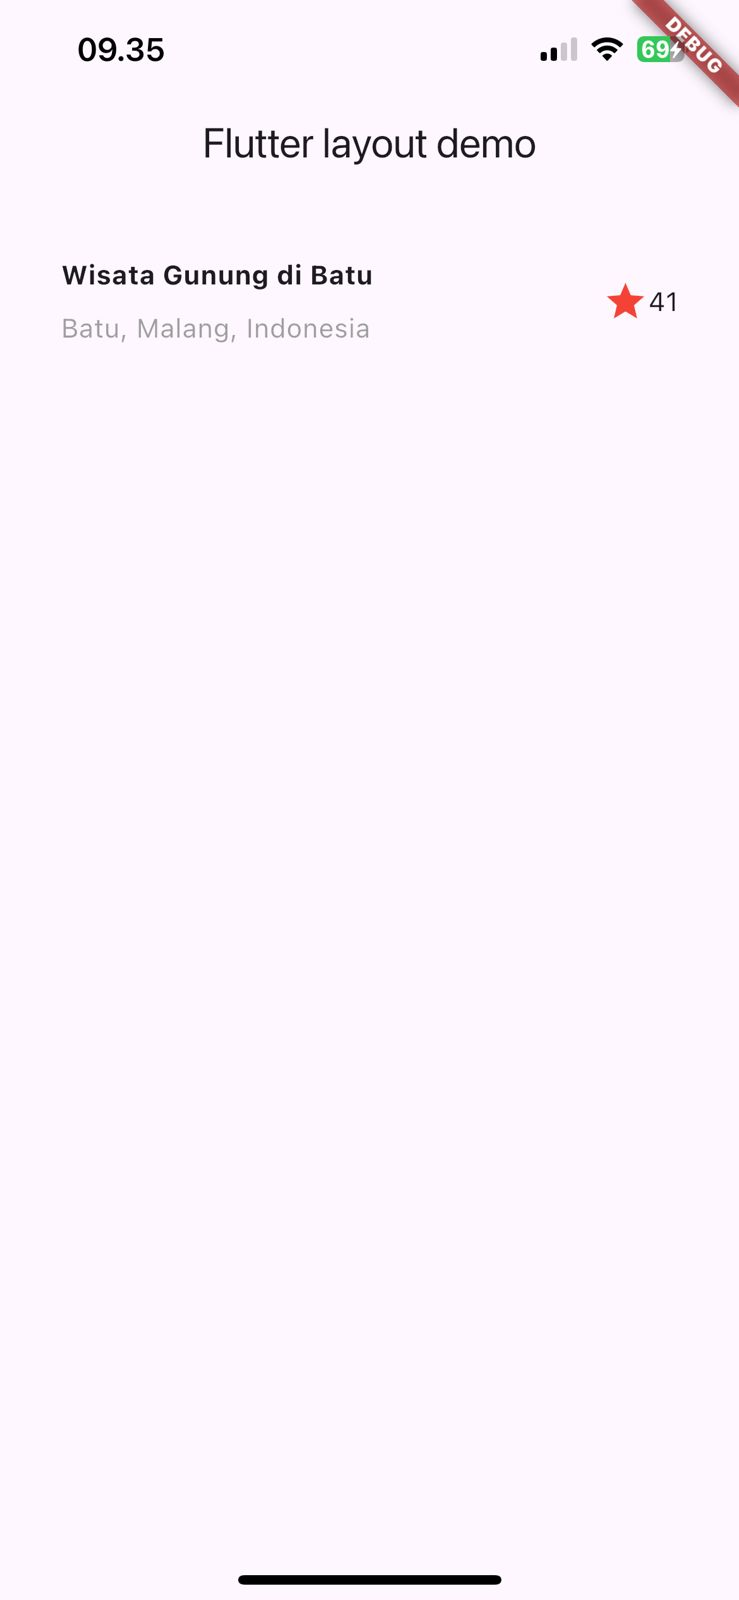
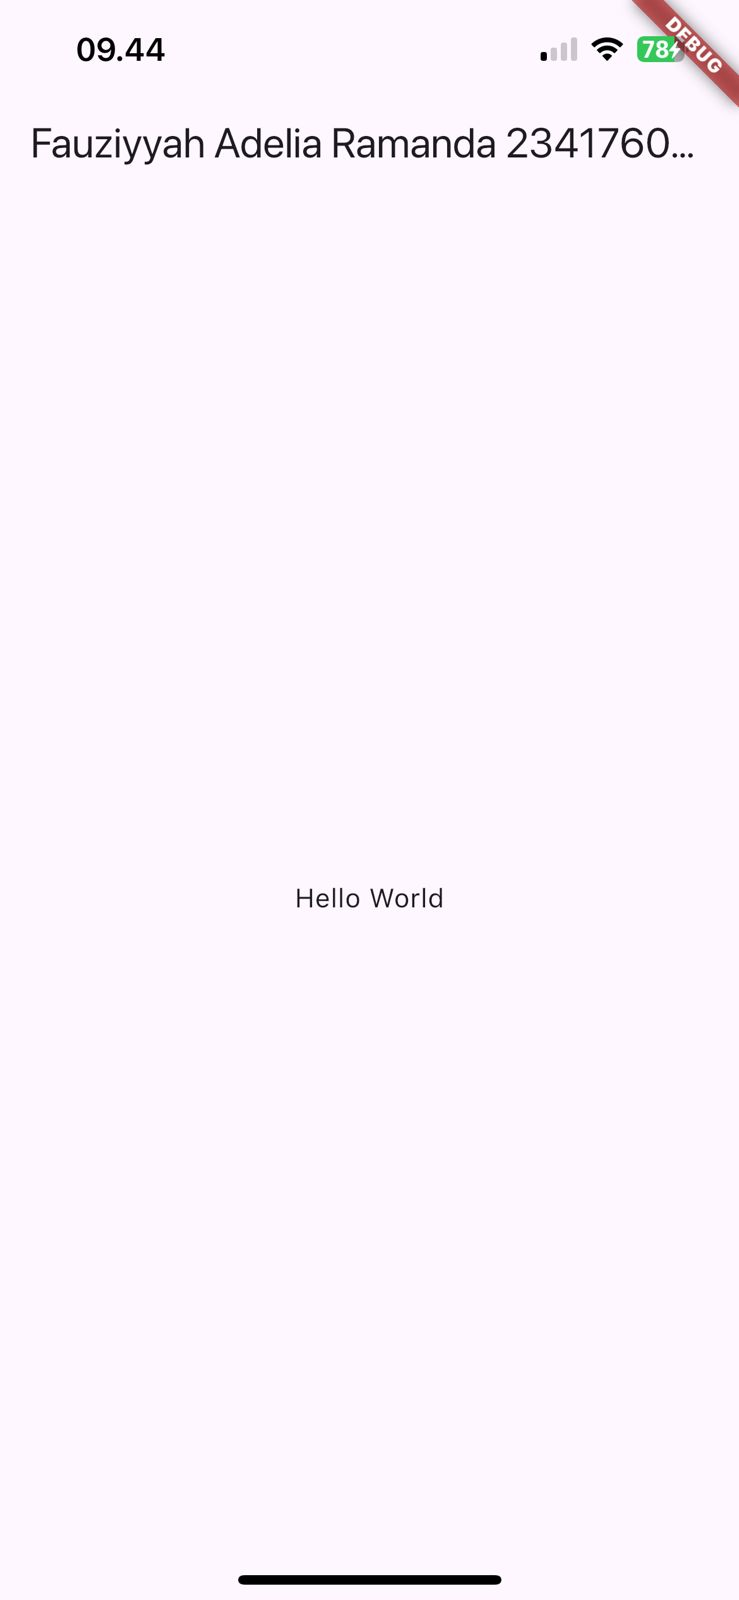
dokum modif main 1

diff --git a/lib/main.dart b/lib/main.dart
@@ -7,54 +7,14 @@ class MyApp extends StatelessWidget {
 
   @override
   Widget build(BuildContext context) {
-    // Bagian title row
-    Widget titleSection = Container(
-      padding: const EdgeInsets.all(32),
-      child: Row(
-        children: [
-          Expanded(
-            // teks judul & subjudul
-            child: Column(
-              crossAxisAlignment: CrossAxisAlignment.start,
-              children: [
-                Container(
-                  padding: const EdgeInsets.only(bottom: 8),
-                  child: const Text(
-                    'Wisata Gunung di Batu',
-                    style: TextStyle(
-                      fontWeight: FontWeight.bold,
-                    ),
-                  ),
-                ),
-                Text(
-                  'Batu, Malang, Indonesia',
-                  style: TextStyle(
-                    color: Colors.grey[500],
-                  ),
-                ),
-              ],
-            ),
-          ),
-          const Icon(
-            Icons.star,
-            color: Colors.red,
-          ),
-          const Text('41'),
-        ],
-      ),
-    );
-
     return MaterialApp(
       title: 'Flutter layout: Nama dan NIM Anda',
       home: Scaffold(
         appBar: AppBar(
-          title: const Text('Flutter layout demo'),
+          title: const Text('Fauziyyah Adelia Ramanda 2341760145'),
         ),
-        body: Column(
-          children: [
-            titleSection, // tampilkan title row di body
-            
-          ],
+        body: const Center(
+          child: Text('Hello World'),
         ),
       ),
     );

diff --git a/README.md b/README.md
@@ -1,4 +1,4 @@
 # Hasil Screenshot
 
-Berikut adalah hasil tampilan aplikasi Flutter setelah Implementasi title row
+Berikut adalah hasil tampilan aplikasi Flutter setelah modifikasi main (ttile)
 ![Hasil Screenshot](images/01.png)
